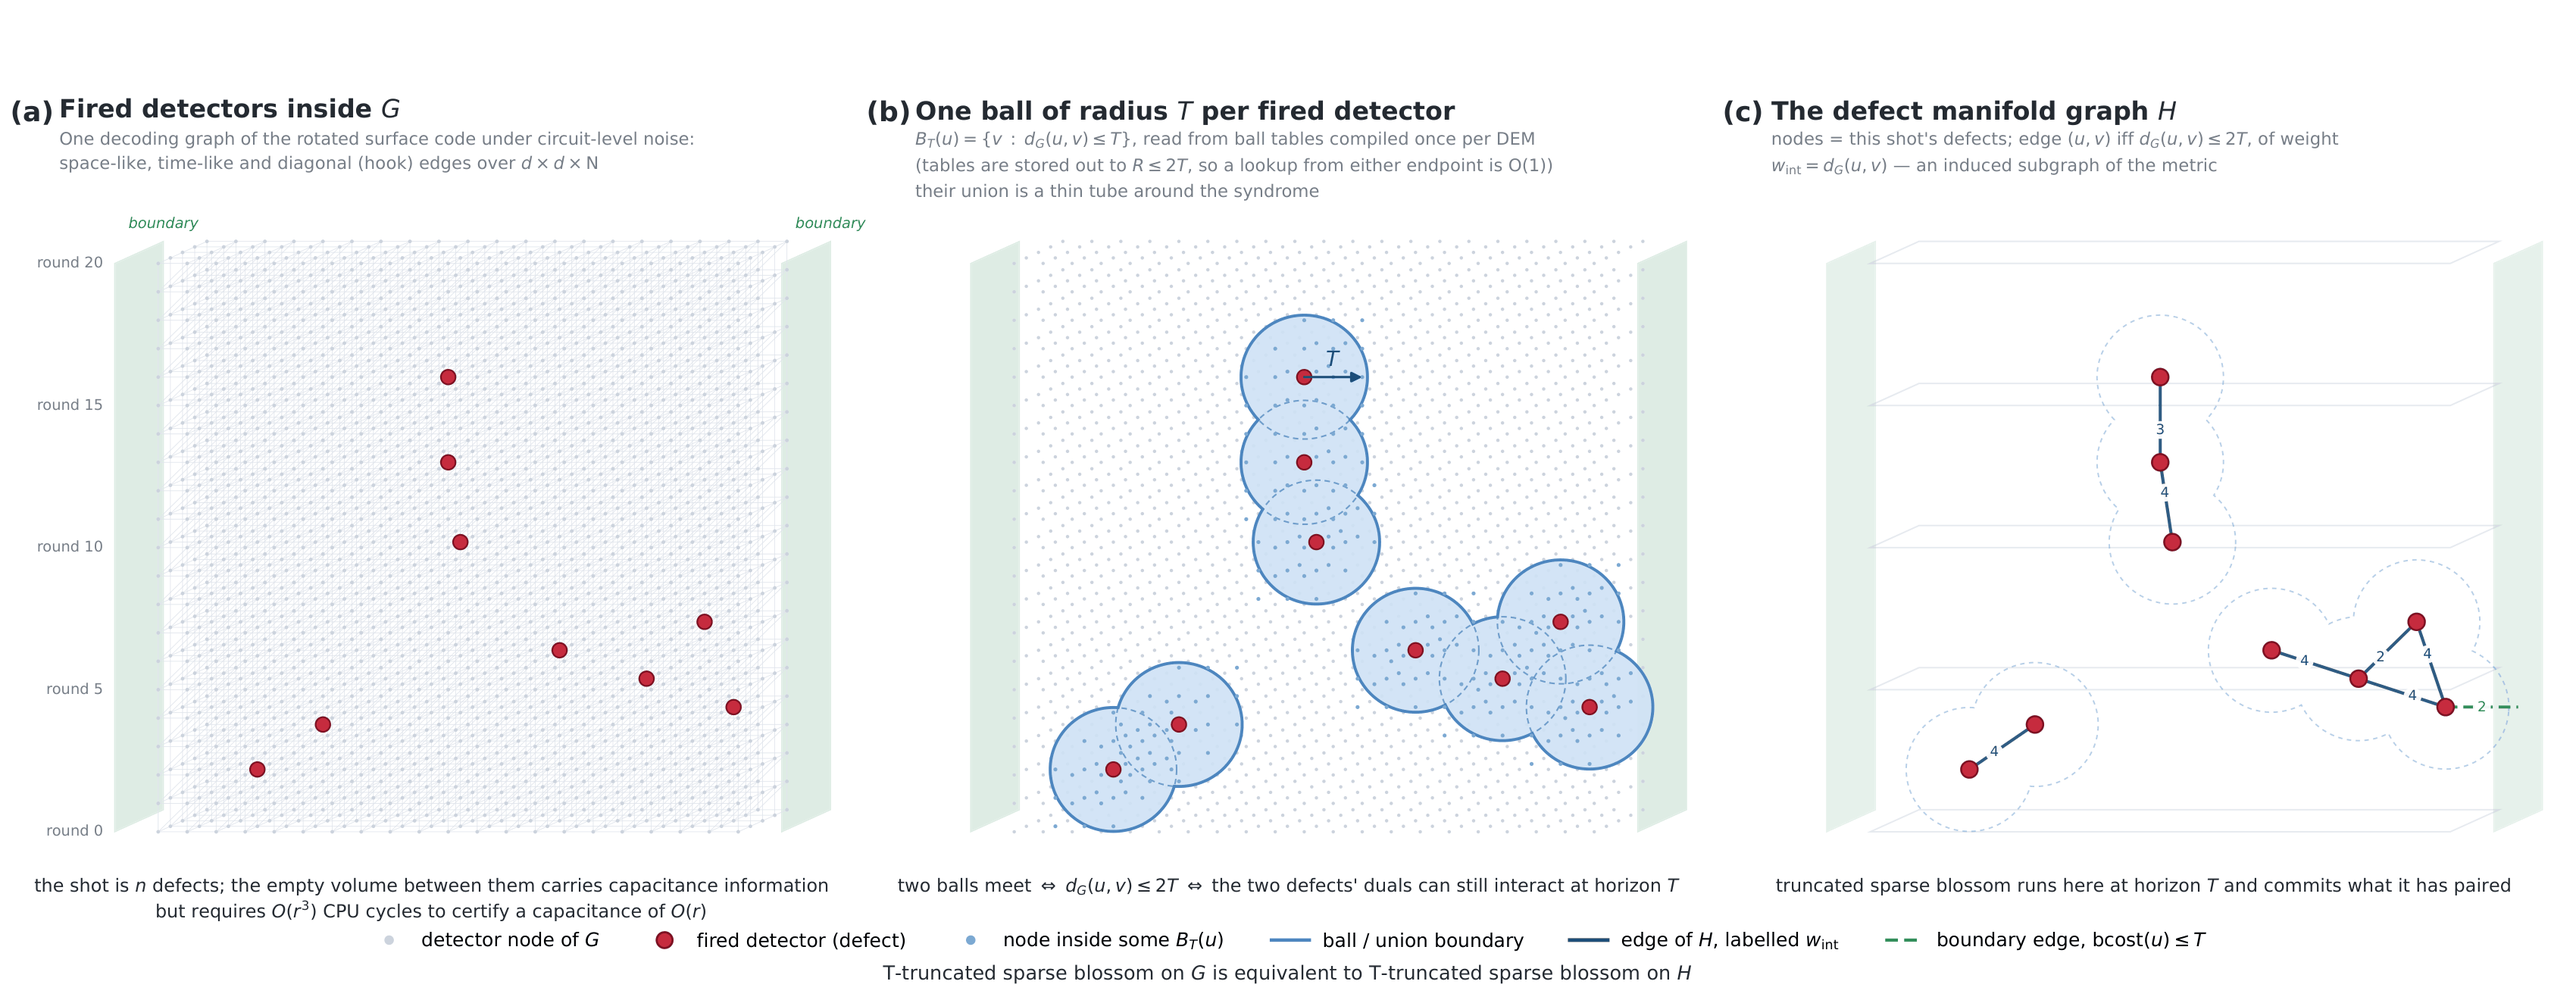
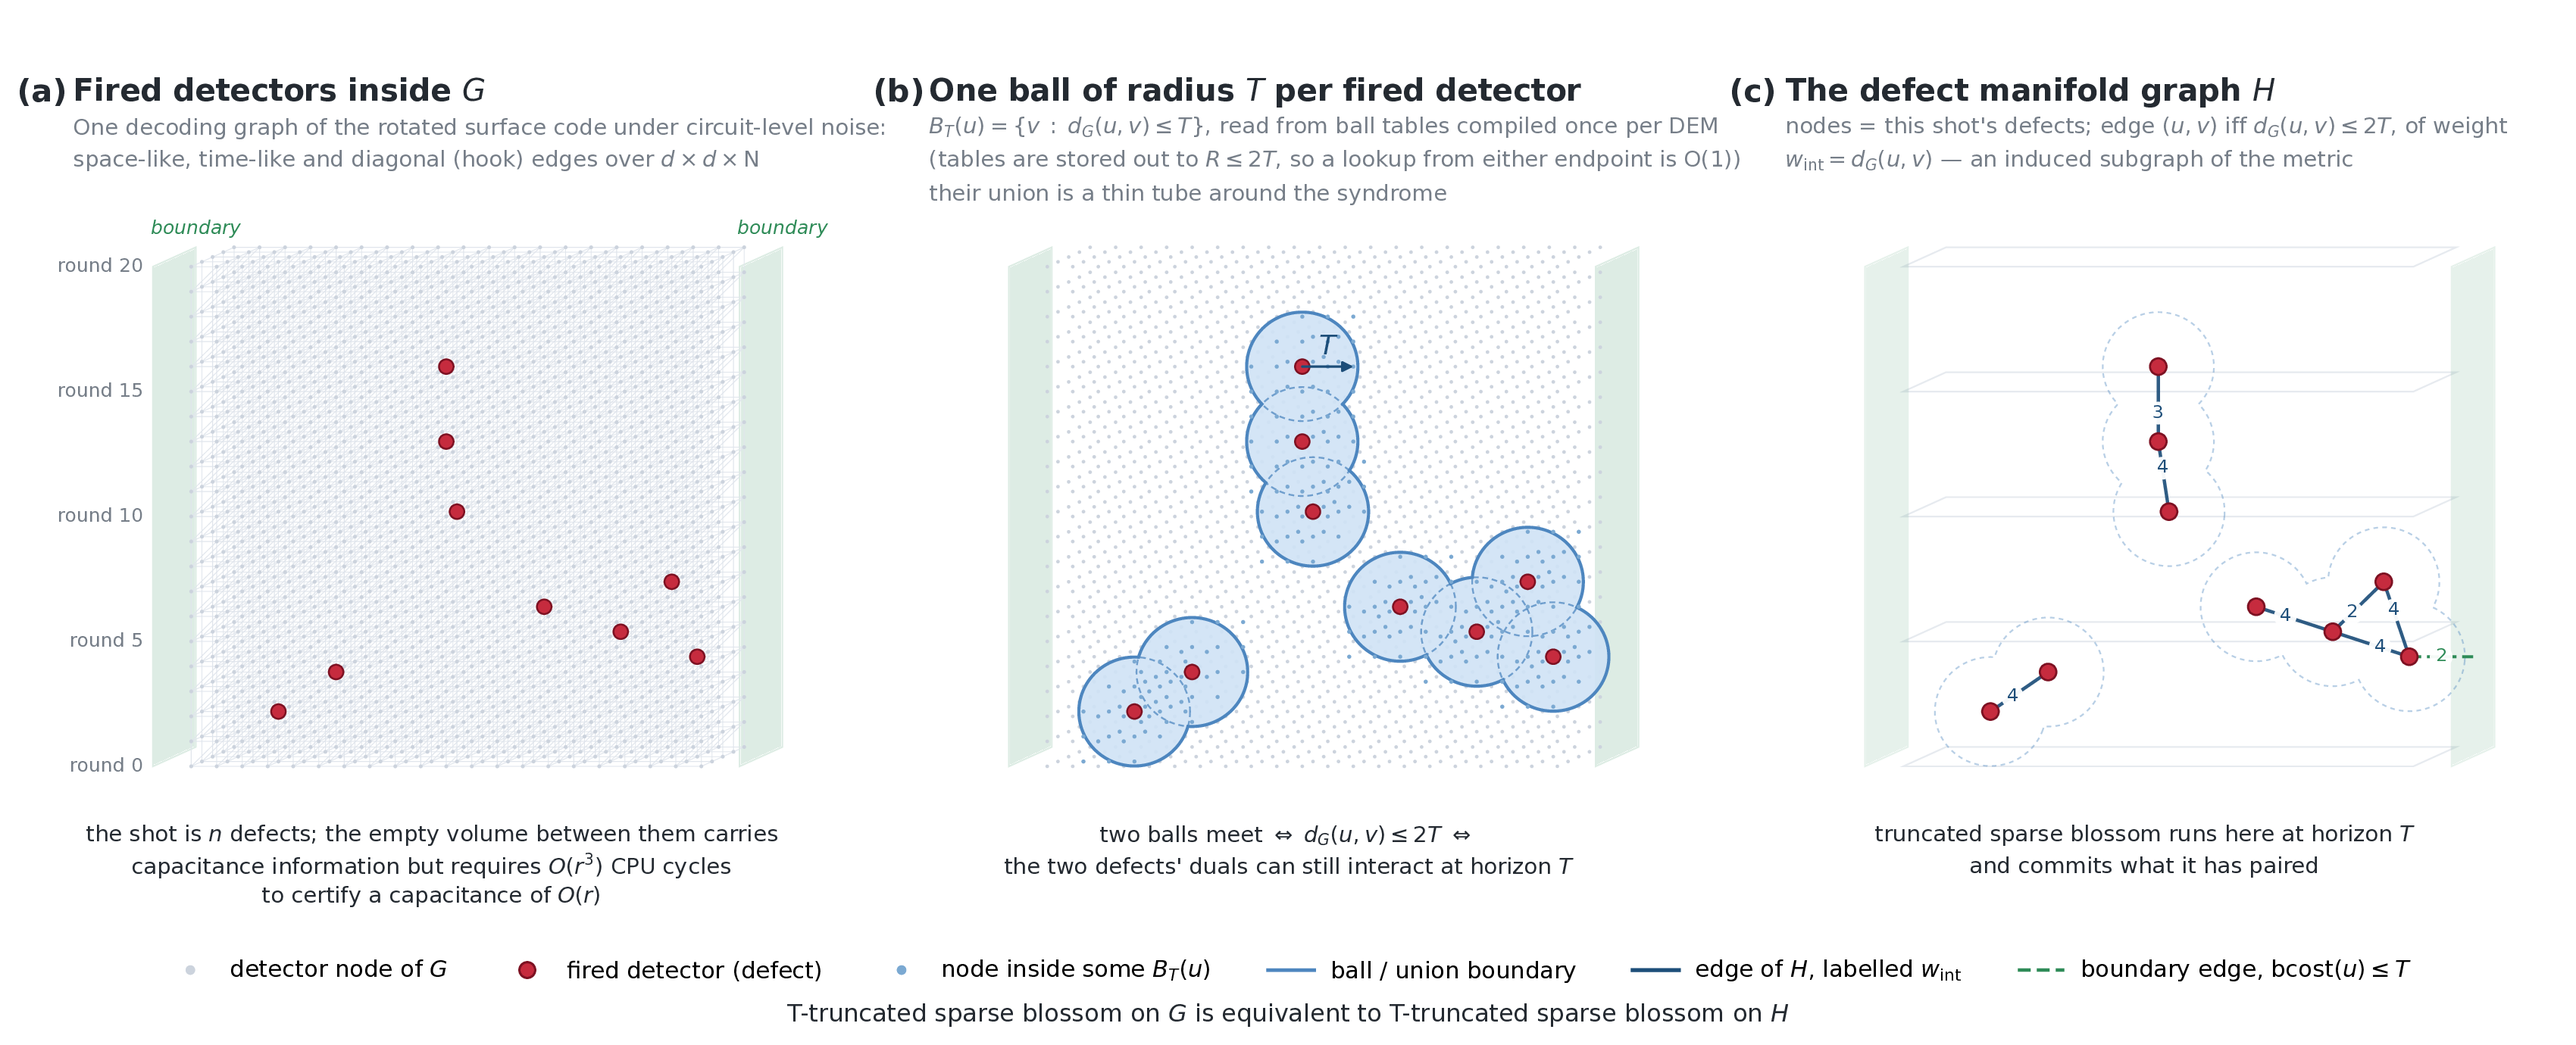
Update README. Make figure more readable.

diff --git a/README.md b/README.md
@@ -15,7 +15,7 @@ A surface-code memory experiment produces one *shot* per logical time block: a s
 **detection events** ("defects") — that a decoder must turn into a correction before the next block
 arrives. The standard exact method builds a **detector graph** `G` whose nodes are detectors and
 whose edge weights are log-likelihood costs, and finds a minimum-weight perfect matching on the
-defects. Sparse blossom (PyMatching v2) does this very fast in *throughput* terms, but it is a
+defects. Sparse blossom (PyMatching v2) does this very fast in shot level parallelism terms, but it is a
 single, inherently serial graph algorithm, and its time scales with the size of the whole graph `G`,
 which grows as `d^3` in the code distance. Real-time decoding needs the *latency of one shot* to be
 small, not the shots-per-second of a batch, and that is the number this repository attacks.
@@ -35,7 +35,7 @@ So instead of solving on `G`, solve on a much smaller graph built per shot:
   Distances come from precomputed **ball tables**: for every node of `G`, every node within radius
   `R` of it, the exact discretised distance and the observable mask of the canonical shortest path.
   The hard requirement is `R >= 2 * T` — a shorter radius silently changes answers.
-* **The exactness certificate.** Run blossom on `H`. If it finishes and its terminal dual variables
+* **The exactness certificate.** Run blossom on `H`. If it finishes and its terminal nested dual variables
   all satisfy `max_u Y(u) <= T`, the result is provably a **global** MWPM on `G`: extending the dual
   by zero off `H` is feasible for the full LP, every omitted edge has strictly positive slack, and
   complementary slackness holds. The matching, its weight and its observable flips are exactly what
@@ -92,6 +92,7 @@ Ran on an Apple M5 Pro chip (2026).
 `fallback` is stock exact sparse blossom on `G` from the full syndrome, run on **every** shot.
 `sparse_k` is the makespan of the simulated `k`-core schedule. `speedup` is
 `mean(fallback) / mean(system)` over all shots, escalating ones included.
+All numbers here are averages over shots.
 
 | `d` | shots | escalated | `fallback` | `sparse_k` | `system` | **speedup** | `system` p99 | `system` p99.9 |
 |--:|--:|--:|--:|--:|--:|--:|--:|--:|
@@ -150,7 +151,7 @@ on what `k` real cores would deliver, not a measurement of them:
 ## Using it
 
 The inherited PyMatching API is unchanged and still the way to decode.
-But it is slower than PyMatching because it isn't intended to be used as a software decoder. :
+But it is slower than PyMatching because it isn't intended to be used as a software decoder.
 The profilers can be built using CMake and have their source located in benchmarks/
 
 
